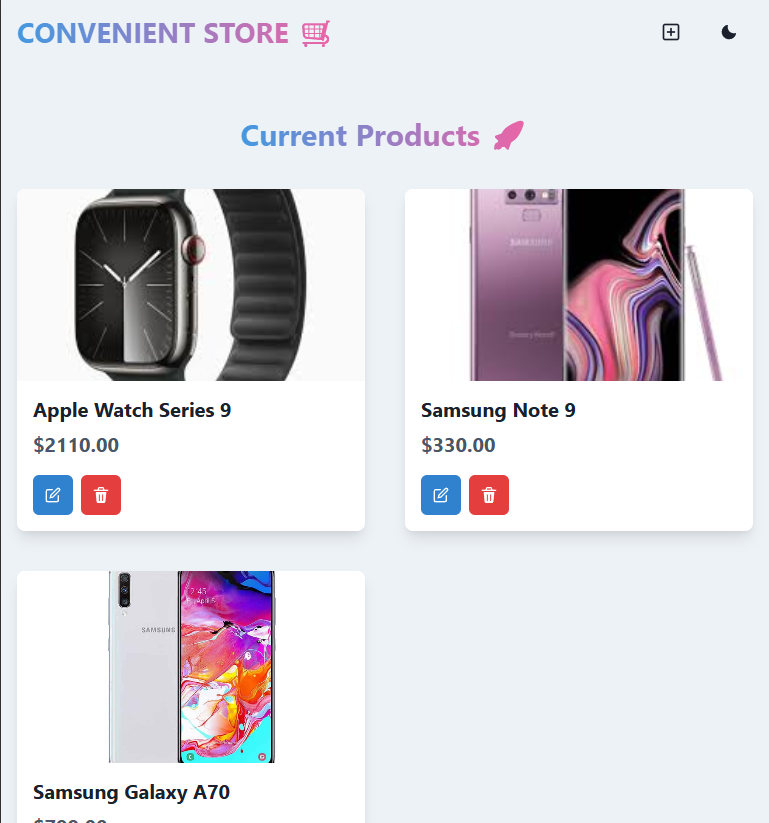
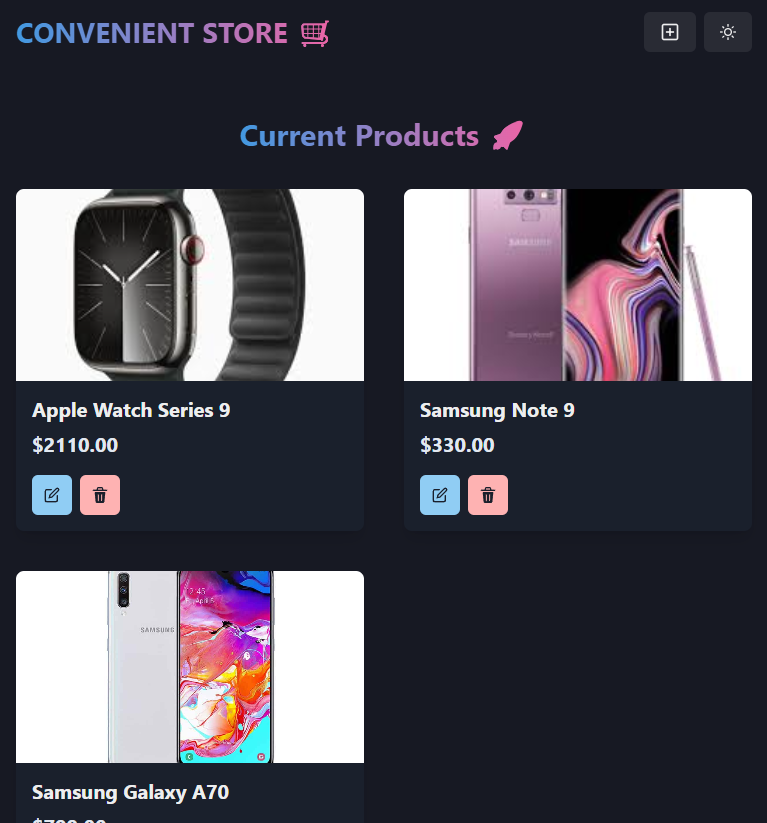
Final responsiveness

diff --git a/README.md b/README.md
@@ -19,13 +19,11 @@
 ## About the Project
 
 <picture>
-  <source media="((prefers-color-scheme: dark) and (min-width: 1280px))" srcset="./assets/images/DarkDesktop.png">
-  <source media="((prefers-color-scheme: dark) and (min-width: 768px))" srcset="./assets/images/DarkTablet.png">
-  <source media="(prefers-color-scheme: dark)" srcset="./assets/images/DarkMobile.png">
-
+  <picture>
   <source media="(min-width: 1280px)" srcset="./assets/images/Desktop.png">
   <source media="(min-width: 768px)" srcset="./assets/images/Tablet.png">
   <img alt="Convenient Store" src="./assets/images/Mobile.png">
+</picture>
 </picture>
 
 I have built a product store app called Convenient Store using MERN stack. Despite the fact that there are product store that exists, the idea of this product store naming came from the fact that this is a convenient way to get product while relaxing at your home.